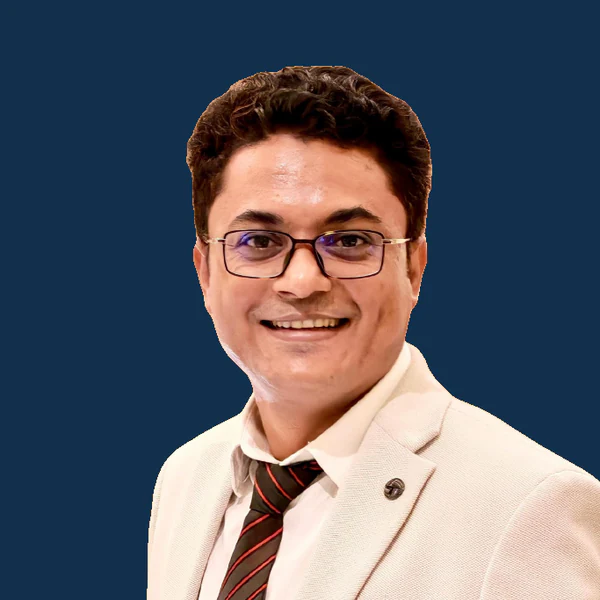
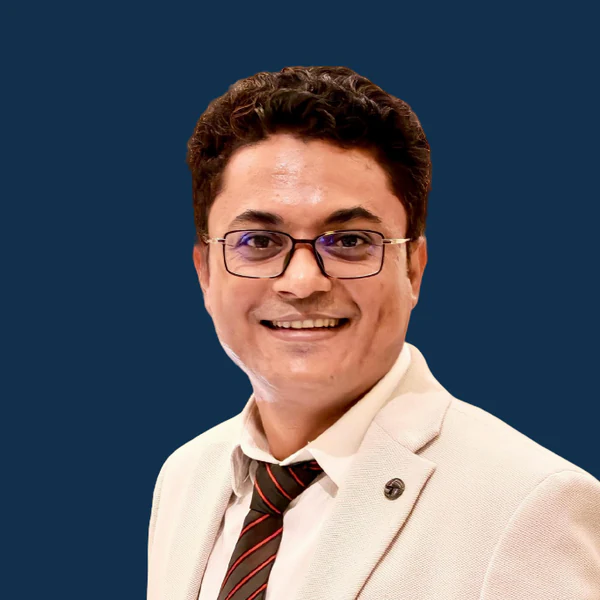
Club Secretariat section, portrait edge clean-up, Donor privileges, Nurul Abser
- Club Secretariat below the Board (Board page + homepage): empty Secretary General
  card styled as an appointed executive, plus official emails, phone, office hours
  and Club House address from the site contact settings
- All portraits re-cut with edge colour decontamination (no light halos on navy);
  new photo for Rasadul Maimun Evo
- Donor Membership privileges now match Life Membership
- Nurul Absar renamed Nurul Abser (incl. cached lists and Governance)

diff --git a/src/components/BoardProfileCard.tsx b/src/components/BoardProfileCard.tsx
@@ -2,7 +2,11 @@ import React from "react";
 import { Director, RoutePath } from "../types";
 import { getDirectorPortrait } from "../utils/storage";
 import { hasTextSelection } from "../utils/selection";
-import { ArrowRight, User } from "lucide-react";
+import { ArrowRight, Briefcase, Clock, Mail, MapPin, Phone, User } from "lucide-react";
+import { getFooterSettingsSync } from "../utils/cmsStorage";
+
+// Not recorded anywhere else on the site yet; update when the Secretariat confirms its hours.
+const SECRETARIAT_OFFICE_HOURS = "To be announced";
 
 interface BoardProfileCardProps {
   key?: React.Key | string | number;
@@ -138,6 +142,69 @@ export function VacantBoardCard({ title }: { title: string }) {
         {title}
       </p>
       <div className="mt-4 pt-3 border-t border-slate-100 h-[30px]" />
+    </div>
+  );
+}
+
+// The Club Secretariat sits outside the Board: an appointed executive who serves the Board, not a director.
+// Navy styling sets it apart from the white director cards. Empty until the post is filled.
+export function SecretariatVacantCard({ title = "Secretary General" }: { title?: string }) {
+  return (
+    <div className="inline-block bg-navy p-6 border border-dashed border-gold/50 rounded-sm w-[290px] sm:w-[320px] shadow-sm text-center">
+      <div className="w-20 h-20 sm:w-24 sm:h-24 lg:w-28 lg:h-28 rounded-full border-2 border-gold/40 bg-navy-mid mx-auto flex items-center justify-center">
+        <Briefcase className="w-9 h-9 text-gold/60" />
+      </div>
+      <h4 className="font-display text-base sm:text-lg font-bold text-white tracking-tight mt-3">&nbsp;</h4>
+      <p className="font-sans text-[9px] sm:text-[10px] text-gold uppercase tracking-[0.15em] font-semibold mt-1">
+        {title}
+      </p>
+      <p className="font-sans text-[9px] text-slate-400 uppercase tracking-[0.12em] mt-1">Appointed Executive</p>
+      <div className="mt-4 pt-3 border-t border-white/10 h-[30px]" />
+    </div>
+  );
+}
+
+// Official Secretariat contact details, read from the site's contact settings (the same source as the footer).
+export function SecretariatContactPanel() {
+  const { email, phone, address } = getFooterSettingsSync().contact;
+  const emails = email.split(/[,;]/).map((e) => e.trim()).filter(Boolean);
+  const addressLines = address.split("\n").map((l) => l.trim()).filter((l) => l && !/^www\./i.test(l));
+  const label = "font-sans text-[9px] text-text-light uppercase tracking-[0.18em] font-semibold";
+  const value = "font-sans text-xs text-text-dark leading-relaxed";
+  return (
+    <div className="bg-white border border-slate-200/80 rounded-sm shadow-sm w-full max-w-2xl mx-auto p-6 grid grid-cols-1 sm:grid-cols-2 gap-5 text-left">
+      <div className="flex gap-3">
+        <Mail className="w-4 h-4 text-gold shrink-0 mt-0.5" />
+        <div className="space-y-1 min-w-0">
+          <p className={label}>Official Email</p>
+          {emails.map((e) => (
+            <a key={e} href={`mailto:${e}`} className={`${value} block hover:text-gold transition-colors break-all`}>{e}</a>
+          ))}
+        </div>
+      </div>
+      <div className="flex gap-3">
+        <Phone className="w-4 h-4 text-gold shrink-0 mt-0.5" />
+        <div className="space-y-1">
+          <p className={label}>Phone</p>
+          <a href={`tel:${phone.replace(/[^+\d]/g, "")}`} className={`${value} block hover:text-gold transition-colors`}>{phone}</a>
+        </div>
+      </div>
+      <div className="flex gap-3">
+        <Clock className="w-4 h-4 text-gold shrink-0 mt-0.5" />
+        <div className="space-y-1">
+          <p className={label}>Office Hours</p>
+          <p className={value}>{SECRETARIAT_OFFICE_HOURS}</p>
+        </div>
+      </div>
+      <div className="flex gap-3">
+        <MapPin className="w-4 h-4 text-gold shrink-0 mt-0.5" />
+        <div className="space-y-1">
+          <p className={label}>Club House</p>
+          {addressLines.map((l) => (
+            <p key={l} className={value}>{l}</p>
+          ))}
+        </div>
+      </div>
     </div>
   );
 }

diff --git a/src/components/pages/Home.tsx b/src/components/pages/Home.tsx
@@ -3,7 +3,7 @@ import { RoutePath } from "../../types";
 import { getBoardMembers, getNewsPosts, getDirectorPortrait } from "../../utils/storage";
 import { getPageContent, getCMSFacilities, getCMSEvents, getCMSAffiliations, fetchFooterSettings, getFooterSettingsSync } from "../../utils/cmsStorage";
 import { FooterSettings } from "../../types";
-import BoardProfileCard, { VacantBoardCard } from "../BoardProfileCard";
+import BoardProfileCard, { SecretariatContactPanel, SecretariatVacantCard, VacantBoardCard } from "../BoardProfileCard";
 import CardMedia from "../CardMedia";
 import { getHomeLayoutCMS } from "../../utils/homeCmsStorage";
 import { ArrowRight, Quote, Calendar, MapPin, Mail, Phone, Clock, Anchor, Users, Shield, Award, Sparkles, ChevronLeft, ChevronRight } from "lucide-react";
@@ -841,6 +841,20 @@ export default function Home({ navigate }: HomeProps) {
                           <BoardProfileCard key={dir.id} director={dir} navigate={navigate} variant="compact" />
                         ))}
                       </div>
+                    </div>
+
+                    {/* Club Secretariat: appointed executive serving the Board (not a board seat) */}
+                    <div className="text-center w-full z-10 mt-8 pt-10 border-t border-slate-200 max-w-5xl mx-auto">
+                      <span className="font-sans text-[9px] text-[#1a2744] uppercase tracking-[0.2em] font-bold block">
+                        Club Secretariat
+                      </span>
+                      <span className="font-sans text-[11px] text-text-light font-light block mt-1 mb-5">
+                        Appointed by and serving the Board of Directors
+                      </span>
+                      <div className="flex justify-center">
+                        <SecretariatVacantCard />
+                      </div>
+                      <div className="mt-6 px-4"><SecretariatContactPanel /></div>
                     </div>
                   </div>
                 </div>

diff --git a/src/components/pages/Governance.tsx b/src/components/pages/Governance.tsx
@@ -41,7 +41,7 @@ export default function Governance({ initialSection = "articles" }: GovernancePr
     { title: "Finance & Audit Committee", chair: "Arifur Rahman (Director – Finance)", duty: "Enforces financial discipline, issues audited spreadsheets, manages treasury balances." },
     { title: "Membership Scrutiny Committee", chair: "Humayun Kabir Robel (Founding President)", duty: "Evaluates candidates, runs compliance background checks, confirms nomination registry entries." },
     { title: "Marine Safety & Sailing Council", chair: "Founding Director Ahmedul Karim Rubel", duty: "Sets yacht docking safety procedures, handles slipway protocols, certifies sailing dinghy licenses." },
-    { title: "Sports & Snooker Committee", chair: "Founding Director Nurul Absar", duty: "Arranges billiard tournaments, squash challenges, tennis championships, and maintains sports facilities." },
+    { title: "Sports & Snooker Committee", chair: "Founding Director Nurul Abser", duty: "Arranges billiard tournaments, squash challenges, tennis championships, and maintains sports facilities." },
     { title: "Cultural & Literary Circle", chair: "Founding Director Maimunul Karim Jisan", duty: "Organizes symphony evenings, library recitals, national day tributes, and coastal art festivals." },
     { title: "Ecological CSR Commission", chair: "Founding Director Mehedi Hasan", duty: "Initiates beachfront plastic cleanups, manages bio-engineering sand-dune stabilization." },
     { title: "Disciplinary & Ethics Panel", chair: "Founding Director Farhan Bin Rafiq", duty: "Maintains member conduct guidelines, solves grievances, enforces strict dress code codes." }

diff --git a/src/data.ts b/src/data.ts
@@ -617,14 +617,14 @@ export const DIRECTORS_DATA: Director[] = [
   },
   {
     id: "nurul-absar",
-    name: "Nurul Absar",
+    name: "Nurul Abser",
     designation: "Founding Director",
     membershipCode: "CBBCL-FM-13",
     memberNumber: "CBBCL-LM-0013",
     profileSubmitted: true,
-    profileRevision: 2,
+    profileRevision: 3,
     bio: [
-      "Nurul Absar is a Founder Director of Cox's Bazar Boat Club Limited (CBBCL). He brings a diverse professional background combining humanitarian work, leadership, career development, networking, and training in the tourism and hospitality sector.",
+      "Nurul Abser is a Founder Director of Cox's Bazar Boat Club Limited (CBBCL). He brings a diverse professional background combining humanitarian work, leadership, career development, networking, and training in the tourism and hospitality sector.",
       "He is an experienced humanitarian professional with extensive experience working with various International Non-Governmental Organizations (INGOs) and United Nations (UN) agencies. Through his professional journey, he has developed strong expertise in coordination, leadership, stakeholder engagement, capacity building, and professional networking.",
       "As a Founder Director of CBBCL, he is also committed to promoting tourism, hospitality, professional networking, and career development opportunities in Cox's Bazar. His experience across the humanitarian and tourism sectors enables him to connect people, organizations, and opportunities while contributing to the sustainable development of the local community and tourism industry."
     ],

diff --git a/src/components/pages/Board.tsx b/src/components/pages/Board.tsx
@@ -4,7 +4,7 @@ import { RoutePath, Director } from "../../types";
 import { getBoardMembers, getDirectorPortrait } from "../../utils/storage";
 import { User, ShieldAlert, Award, Anchor, ArrowRight } from "lucide-react";
 import { motion } from "motion/react";
-import BoardProfileCard, { VacantBoardCard } from "../BoardProfileCard";
+import BoardProfileCard, { SecretariatContactPanel, SecretariatVacantCard, VacantBoardCard } from "../BoardProfileCard";
 import BackgroundVideo from "../BackgroundVideo";
 
 interface BoardProps {
@@ -130,6 +130,22 @@ export default function Board({ navigate }: BoardProps) {
               <BoardProfileCard key={dir.id} director={dir} navigate={navigate} variant="compact" />
             ))}
           </div>
+        </div>
+
+        {/* CLUB SECRETARIAT: appointed executive serving the Board (not a board seat, so not a numbered row) */}
+        <div className="space-y-6 pt-12 border-t border-slate-200 max-w-5xl mx-auto w-full">
+          <div className="text-center space-y-1.5">
+            <h5 className="font-sans text-[10px] text-[#1a2744] uppercase tracking-[0.2em] font-bold block">
+              Club Secretariat
+            </h5>
+            <p className="font-sans text-[11px] text-text-light font-light">
+              Appointed by and serving the Board of Directors
+            </p>
+          </div>
+          <div className="flex justify-center">
+            <SecretariatVacantCard />
+          </div>
+          <SecretariatContactPanel />
         </div>
 
       </section>

diff --git a/src/membershipCategories.ts b/src/membershipCategories.ts
@@ -56,7 +56,20 @@ export const MEMBERSHIP_CATEGORIES: MembershipCategory[] = [
       subscriptionDetail: "Donor Members are exempt from monthly subscriptions."
     },
     eligibility: ["Admission is governed by the membership provisions of the Articles of Association."],
-    privileges: ["General Membership with voting and election rights.", "Exempt from monthly subscriptions."],
+    // Same facilities as Life Membership (club's instruction, 2026-10-18).
+    privileges: [
+      "No regular monthly subscription",
+      "Full General Membership rights",
+      "Voting rights",
+      "Eligibility to contest elections subject to Articles",
+      "Club facility access",
+      "Family privileges",
+      "Guest privileges",
+      "Boating access",
+      "Dining and recreation",
+      "Member events",
+      "Nominee/succession provisions"
+    ],
     restrictions: []
   },
   {

diff --git a/src/utils/storage.ts b/src/utils/storage.ts
@@ -145,7 +145,8 @@ const RENAMED_DIRECTORS: Record<string, { name: string; oldNames: string[] }> = 
   "reshedul-evu": { name: "Rasadul Maimun Evo", oldNames: ["Reshedul Evu"] },
   "mohammed-elias": { name: "Mohammad Eliyas", oldNames: ["Mohammed Elias"] },
   "maimunal-karim-jisan": { name: "Maimunul Karim Jisan", oldNames: ["Maimunal Karim Jisan"] },
-  "md-rezaul-kabir-reza": { name: "Mohammad Rezaul Kabir Reza", oldNames: ["Md Rezaul Kabir Reza"] }
+  "md-rezaul-kabir-reza": { name: "Mohammad Rezaul Kabir Reza", oldNames: ["Md Rezaul Kabir Reza"] },
+  "nurul-absar": { name: "Nurul Abser", oldNames: ["Nurul Absar"] }
 };
 
 // Directors whose board seat changed; cached lists still holding the old seat are moved.

diff --git a/src/utils/memberStorage.ts b/src/utils/memberStorage.ts
@@ -48,7 +48,7 @@ const DEMO_MEMBER_IDS = [
   "syfuddin-khaled"
 ];
 const MEMBERS_SEED_KEY = "cbbcl_club_members_seed";
-const MEMBERS_SEED_VERSION = "founding-directors-v17";
+const MEMBERS_SEED_VERSION = "founding-directors-v18";
 
 
 export function getClubMembers(): ClubMember[] {
